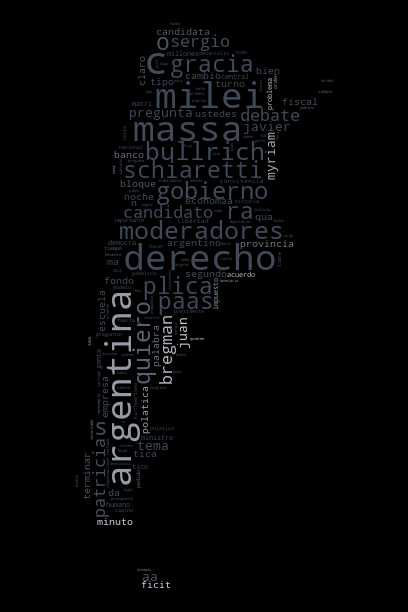
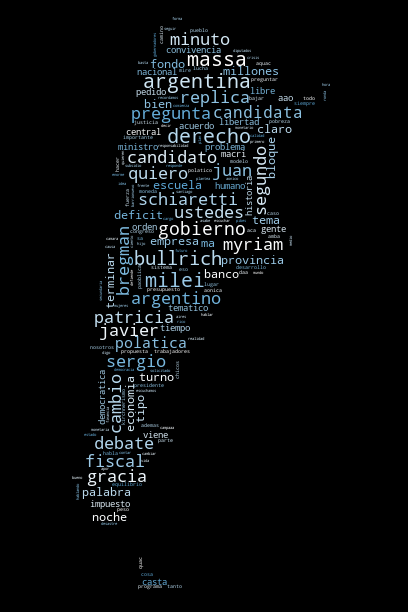
add - add clean text function and color to generation of map

Changed region(s): [[0.1765, 0.031, 0.7941, 0.8693], [0.3235, 0.9003, 0.4412, 0.9624], [0.7941, 0.1242, 0.8235, 0.1552]]

diff --git a/cloudWord.py b/cloudWord.py
@@ -1,27 +1,15 @@
 import os
+import random
 from wordcloud import WordCloud, ImageColorGenerator
-from unidecode import unidecode
 from PIL import Image
 import numpy as np
 
-def custom_filter(word):
-    return any(caracter.isdigit() for caracter in word) or len(word) < 4
+def grey_color_func(word, font_size, position, orientation, random_state=None,
+                    **kwargs):
+    return "hsl(203, 60%%, %d%%)" % random.randint(60, 100)
 
-with open('texto.txt', 'r') as text_file:
+with open('cleantext.txt', 'r') as text_file:
     text = text_file.read()
-
-with open('filterDict.txt', 'r') as text_file:
-    wordsToFilter = [linea.strip() for linea in text_file]
-
-words = text.split()
-
-filteredWords = [word for word in words if word.lower().strip()
-                not in [w.lower().strip() for w in wordsToFilter]
-                and not custom_filter(word)]
-
-text = ' '.join(filteredWords)
-
-text = unidecode(text).lower()
 
 mapArg = np.array(Image.open("arg.jpg"))
 
@@ -29,9 +17,10 @@ mapMask = mapArg.copy()
 
 mapMask[mapMask.sum(axis=2) == 0] = 255
 
-wc = WordCloud(width=1200, height=1200, max_words=3000, mask=mapMask, max_font_size=40, random_state=42, relative_scaling=0.3, collocations=False, margin=2)
+wc = WordCloud(width=1200, height=1200, max_words=3000, 
+    mask=mapMask, max_font_size=20, random_state=42, 
+    relative_scaling=0.3, collocations=False, margin=2).generate(text)
 
-wc.generate(text)
 image_colors = ImageColorGenerator(mapArg)
-wc.recolor(color_func=image_colors)
+wc.recolor(color_func=grey_color_func, random_state=3)
 wc.to_file("wordCloud.png")

diff --git a/clean.py b/clean.py
@@ -1,0 +1,28 @@
+import re
+from unidecode import unidecode
+
+def custom_filter(word):
+    return any(caracter.isdigit() for caracter in word) or len(word) < 4
+
+
+with open('texto.txt', 'r') as text_file:
+    text = text_file.read()
+
+with open('filterDict.txt', 'r') as text_file:
+    wordsToFilter = [linea.strip() for linea in text_file]
+
+words = text.split()
+
+filteredWords = [word for word in words if word.lower().strip()
+                not in [w.lower().strip() for w in wordsToFilter]
+                and not custom_filter(word)]
+
+text = ' '.join(filteredWords)
+text = unidecode(text).lower()
+
+text = re.sub(r'[¿!¡;,:\.\?#@()+-="]',
+        "",
+        text)
+
+with open('cleanText.txt', 'w') as text_file:
+    text_file.write(text)
